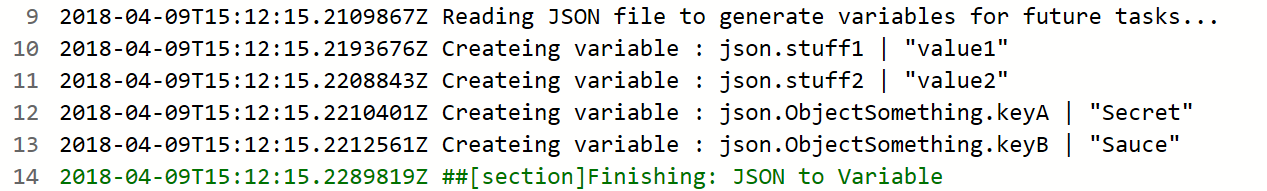
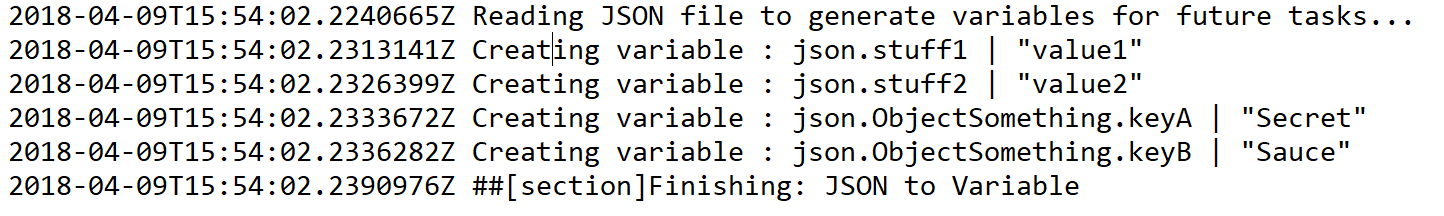
various minor fixes and spelling corrections

diff --git a/Json2Variable/src/processJson.ts b/Json2Variable/src/processJson.ts
@@ -100,7 +100,7 @@ async function ProcessSingleNode(dataQueue:dataItem.DataItem[],thisJson:JSON,ndx
             else //this is a normal value, we should create a variable for it
             {
                 var vName:string = thisDataItem.PrefixChain + "." + keys[ndx];
-                console.log("Createing variable : " + vName + " | " + txt);
+                console.log("Creating variable : " + vName + " | " + txt);
                 
                 tl.setVariable(vName, txt);
             }

diff --git a/Json2Variable/dist/processJson.js b/Json2Variable/dist/processJson.js
@@ -105,7 +105,7 @@ function ProcessSingleNode(dataQueue, thisJson, ndx, thisDataItem, keys) {
                     }
                     else {
                         vName = thisDataItem.PrefixChain + "." + keys[ndx];
-                        console.log("Createing variable : " + vName + " | " + txt);
+                        console.log("Creating variable : " + vName + " | " + txt);
                         tl.setVariable(vName, txt);
                     }
                     _a.label = 4;
